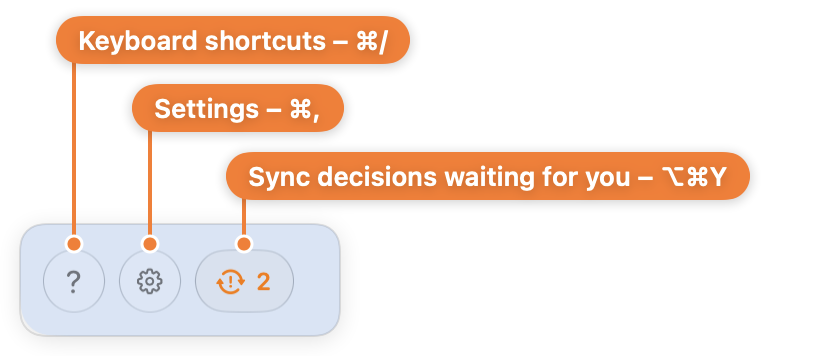
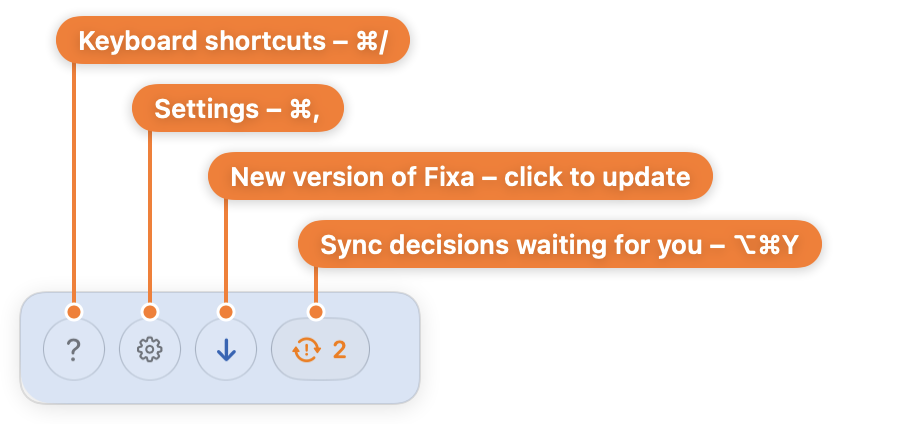
Fixa 0.7

Changed region(s): [[0.0, 0.0309, 0.9286, 0.9579]]

diff --git a/demo.js b/demo.js
@@ -152,6 +152,7 @@
                 p("At the bottom left of the window:") +
                 image("guide-buttons.png", 840, 356) +
                 ul(b("?") + " – all keyboard shortcuts (⌘/)", b("Gear") + " – Settings (⌘,)",
+               b("Update") + " – a new version of Fixa is ready. Click it to see what’s new and update. It only shows up when there is one.",
                    hl("Orange number", "orange") + " – sync decisions waiting for you. It only shows up when there are some.") +
                 heading("In Settings") +
                 ul(b("General") + " – open Fixa when you log in", b("Updates") + " – Fixa updates itself and always asks first",
@@ -404,7 +405,7 @@
     // Změny zůstávají jen v localStorage tohoto prohlížeče (nic se nikam neposílá) a přežijí obnovení
     // stránky. Ukládají se jen změněné a nové poznámky. Při změně ukázkových dat zvyš `storeVersion` –
     // staré úpravy by jinak přepsaly nový obsah.
-    const storeKey = "fixa-demo", storeVersion = 1;
+    const storeKey = "fixa-demo", storeVersion = 2;
     function readStore() {
         try {
             const data = JSON.parse(localStorage.getItem(storeKey));
@@ -933,6 +934,8 @@
         box.remove();
     }
     const isPhone = () => host.clientWidth <= 640;
+    // Mezera mezi spodkem hlavičky editoru a začátkem textu proti zarovnání na seznam (NoteEditor.textGapScale).
+    const textGapScale = 2;
     function layoutBar() {
         if (!widths) measure();
         const available = headEl.clientWidth - (isPhone() ? 24 : 44), gap = 8;
@@ -951,13 +954,17 @@
         }
         row1.replaceChildren(...first.map((key) => groups[key]));
         row2.replaceChildren(...(rest ? [...rest, "link", "image"] : []).map((key) => groups[key]));
-        // Text začíná na úrovni titulku první poznámky v seznamu; níž jen když by narazil do lišty.
+        // Výchozí místo pro začátek textu: na úrovni titulku první poznámky v seznamu (níž, když by narazil
+        // do lišty); hlavička sahá do půli cesty k němu. Mezera pod hlavičkou je ale dvojnásobná, text začíná
+        // o kus níž (NoteEditor.textGapScale).
         const lastRow = rest ? row2 : row1;
         const barBottom = lastRow.offsetTop + lastRow.offsetHeight;
         const listTitleTop = 52 + 6 + 42 + 14 + 9 + 3;
-        const capTop = isPhone() ? barBottom + 24 : Math.max(listTitleTop, barBottom + 24);
+        const alignedTop = isPhone() ? barBottom + 24 : Math.max(listTitleTop, barBottom + 24);
+        const headHeight = (barBottom + alignedTop) / 2;
+        const capTop = headHeight + textGapScale * (alignedTop - headHeight);
         host.style.setProperty("--fx-doc-top", `${Math.round(capTop - 6)}px`);
-        host.style.setProperty("--fx-head-height", `${Math.round((barBottom + capTop) / 2)}px`);
+        host.style.setProperty("--fx-head-height", `${Math.round(headHeight)}px`);
         updateBar();
     }
 

diff --git a/index.html b/index.html
@@ -45,7 +45,7 @@
                 </a>
                 <a class="button glass" href="#install">How to install</a>
             </div>
-            <p class="meta">Version 0.6 · macOS 26 Tahoe or later · Apple silicon and Intel · Free</p>
+            <p class="meta">Version 0.7 · macOS 26 Tahoe or later · Apple silicon and Intel · Free</p>
             <!-- Živé okno Fixy (demo.js); bez JavaScriptu snímek okna. -->
             <div class="fx" id="fixa-demo" aria-label="Try Fixa right here">
                 <noscript><img class="shot" src="images/window.png" width="2360" height="1480" alt="Fixa window: projects on the left, notes in the middle, the editor on the right"></noscript>
@@ -162,7 +162,7 @@
                     <li><strong>Confirm.</strong> Click Open Anyway again and use Touch ID or your password. Fixa opens and helps with the rest.</li>
                 </ol>
                 <div class="install-download">
-                    <a class="button" href="https://github.com/fixa-notes-app/fixa-notes-app.github.io/releases/latest/download/Fixa.dmg">Download Fixa 0.6</a>
+                    <a class="button" href="https://github.com/fixa-notes-app/fixa-notes-app.github.io/releases/latest/download/Fixa.dmg">Download Fixa 0.7</a>
                     <span>macOS 26 Tahoe or later</span>
                 </div>
             </div>
@@ -206,7 +206,7 @@
 
 <footer>
     <img src="images/icon.png" alt="">
-    Fixa 0.6 · A personal notes app, shared with friends.
+    Fixa 0.7 · A personal notes app, shared with friends.
 </footer>
 
 <script>
